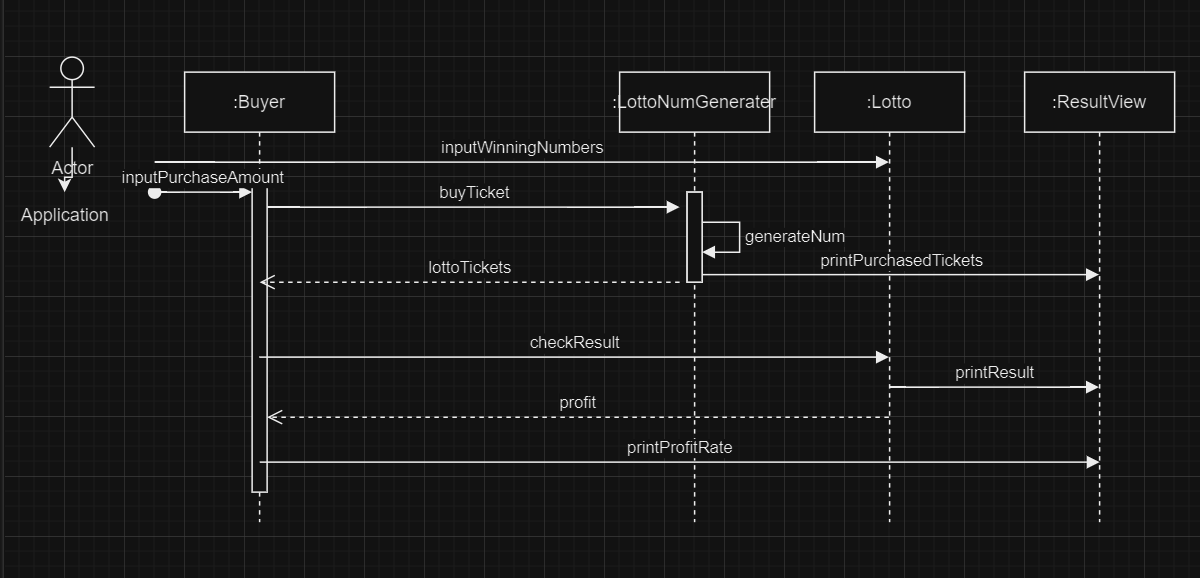
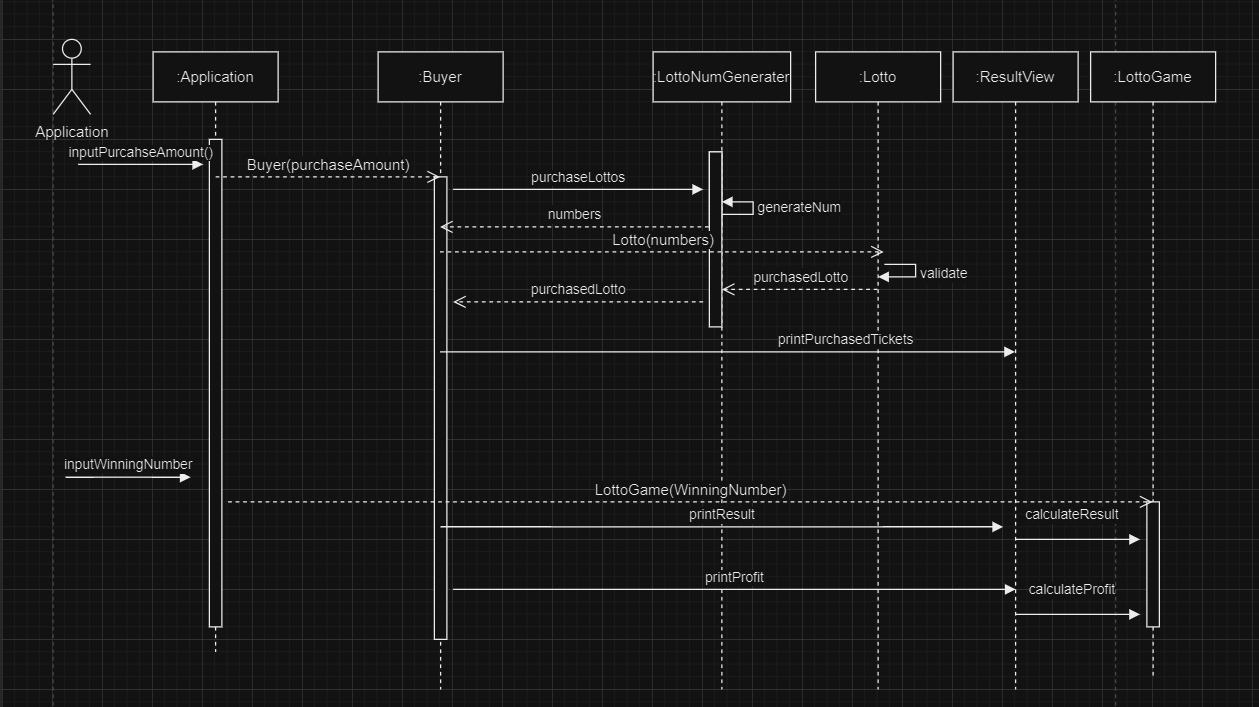
docs(README): 순서다이어그램 수정
기존에 LottoNumGenerator가 Lotto를 반환했던 것에서 List<Integer>을 반환하고, Buyer에서 Lotto 객체를 생성하는것으로 수정했습니다.

diff --git a/README.md b/README.md
@@ -20,4 +20,4 @@
 - 리팩토링
 
 - 순서 다이어그램(활동막대 생략)
-![img_2.png](img_2.png)
+![img.png](img.png)
